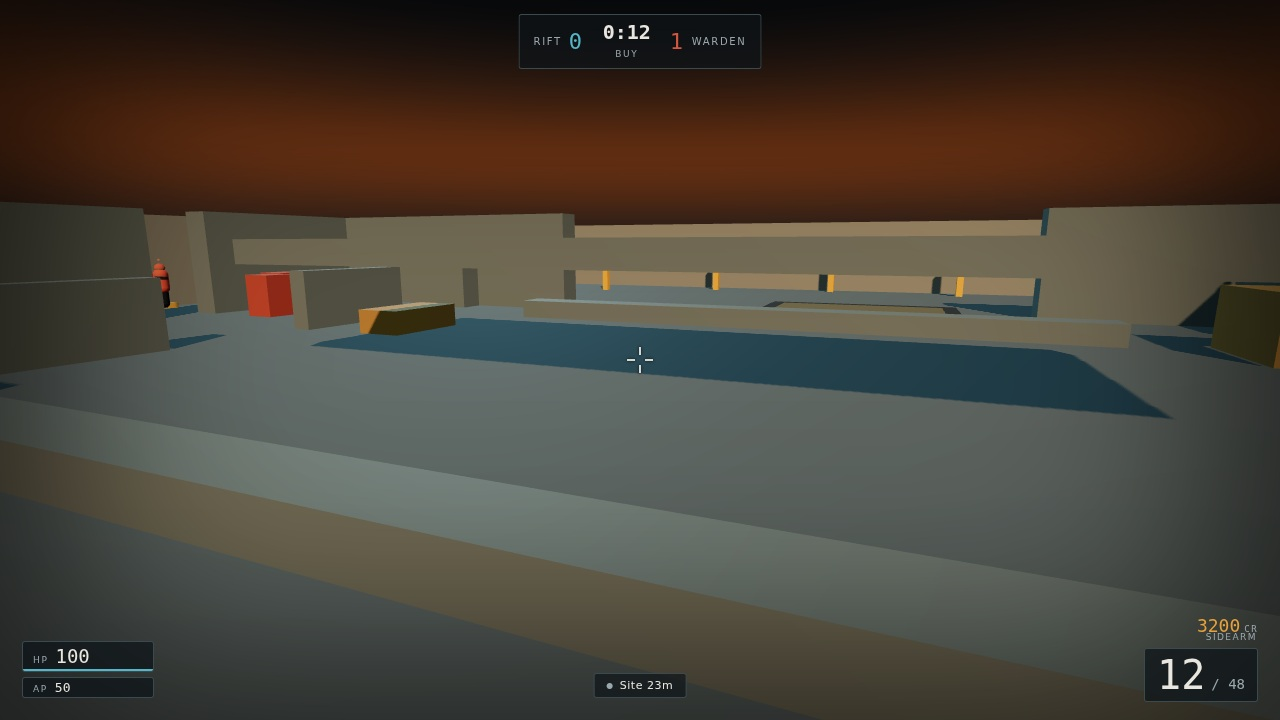
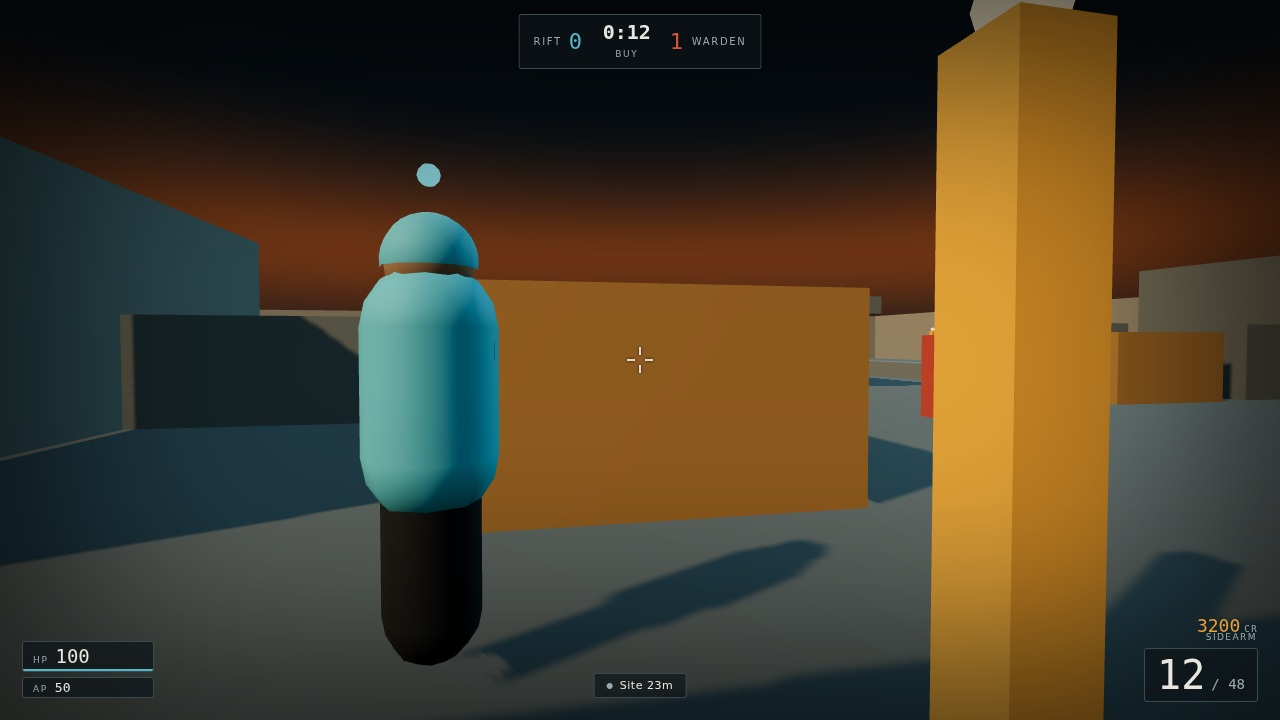
stills: hero camera over the shoulder, four frames under the gate

diff --git a/game/src/main.js b/game/src/main.js
@@ -475,7 +475,7 @@ function frameShot(mode) {
 function segmentBlocked(p, q, colliders) {
   const dx = q.x - p.x; const dy = q.y - p.y; const dz = q.z - p.z;
   for (const c of colliders) {
-    if (c.maxY < 1.0) continue;
+    if (c.maxY < 1.5) continue;
     let tmin = 0; let tmax = 1; let ok = true;
     const axes = [[p.x, dx, c.minX, c.maxX], [p.y, dy, c.minY, c.maxY], [p.z, dz, c.minZ, c.maxZ]];
     for (const [o, d, lo, hi] of axes) {
@@ -495,9 +495,9 @@ function segmentBlocked(p, q, colliders) {
 }
 
 function insideSolid(p, colliders) {
-  return colliders.some((c) => c.maxY > 1.0
-    && p.x > c.minX - 0.5 && p.x < c.maxX + 0.5
-    && p.z > c.minZ - 0.5 && p.z < c.maxZ + 0.5
+  return colliders.some((c) => c.maxY > 1.2
+    && p.x > c.minX - 0.3 && p.x < c.maxX + 0.3
+    && p.z > c.minZ - 0.3 && p.z < c.maxZ + 0.3
     && p.y > c.minY - 0.2 && p.y < c.maxY + 0.2);
 }
 
@@ -518,9 +518,9 @@ function stepToFirefight(input, budgetFrames) {
         if (d < pairDist && d > 2 && d < 16) { pairDist = d; pair = [a, b]; }
       }
     }
-    // A good firefight still needs both teams still standing; once a wipe starts, the lane is empty.
+    // Stop while the round is still live: a wipe would leave the camera framing respawns.
     const alive = sim.actors.filter((a) => a.alive).length;
-    if (pair !== null && pairDist < 11 && alive >= 6 && fired > 6) break;
+    if (sim.match.phase === PHASE.LIVE && pair !== null && pairDist < 12 && alive >= 6 && fired > 3) break;
   }
   return { pair, pairDist, fired, steps, alive: sim.actors.filter((a) => a.alive).length };
 }
@@ -536,7 +536,33 @@ function frameFirefight(pair) {
     : [{ x: focus.x, y: 1.3, z: focus.z }];
   const colliders = world.colliders;
   let chosen = null;
-  for (const dist of [4.8, 6.2, 8, 10.5]) {
+
+  // First choice: over the shoulder of one of the pair. At three metres the bodies read at thumbnail
+  // size, the muzzle line is visible, and the shot still shows the lane they are fighting down.
+  if (pair !== null) {
+    const [a, b] = pair;
+    const dx = b.body.position.x - a.body.position.x;
+    const dz = b.body.position.z - a.body.position.z;
+    const len = Math.hypot(dx, dz) || 1;
+    for (const side of [0.9, -0.9, 1.5, -1.5, 2.2, -2.2]) {
+      for (const back of [2.4, 3.0, 3.8]) {
+        for (const height of [1.75, 2.1, 2.6]) {
+          const p = {
+            x: a.body.position.x - (dx / len) * back + (-dz / len) * side,
+            y: height,
+            z: a.body.position.z - (dz / len) * back + (dx / len) * side,
+          };
+          if (insideSolid(p, colliders)) continue;
+          chosen = { p, dist: back, height };
+          break;
+        }
+        if (chosen) break;
+      }
+      if (chosen) break;
+    }
+  }
+
+  for (const dist of chosen === null ? [4.8, 6.2, 8, 10.5] : []) {
     for (let k = 0; k < 16 && chosen === null; k += 1) {
       const ang = (k / 16) * Math.PI * 2;
       for (const height of [2.2, 3.0, 4.2]) {
